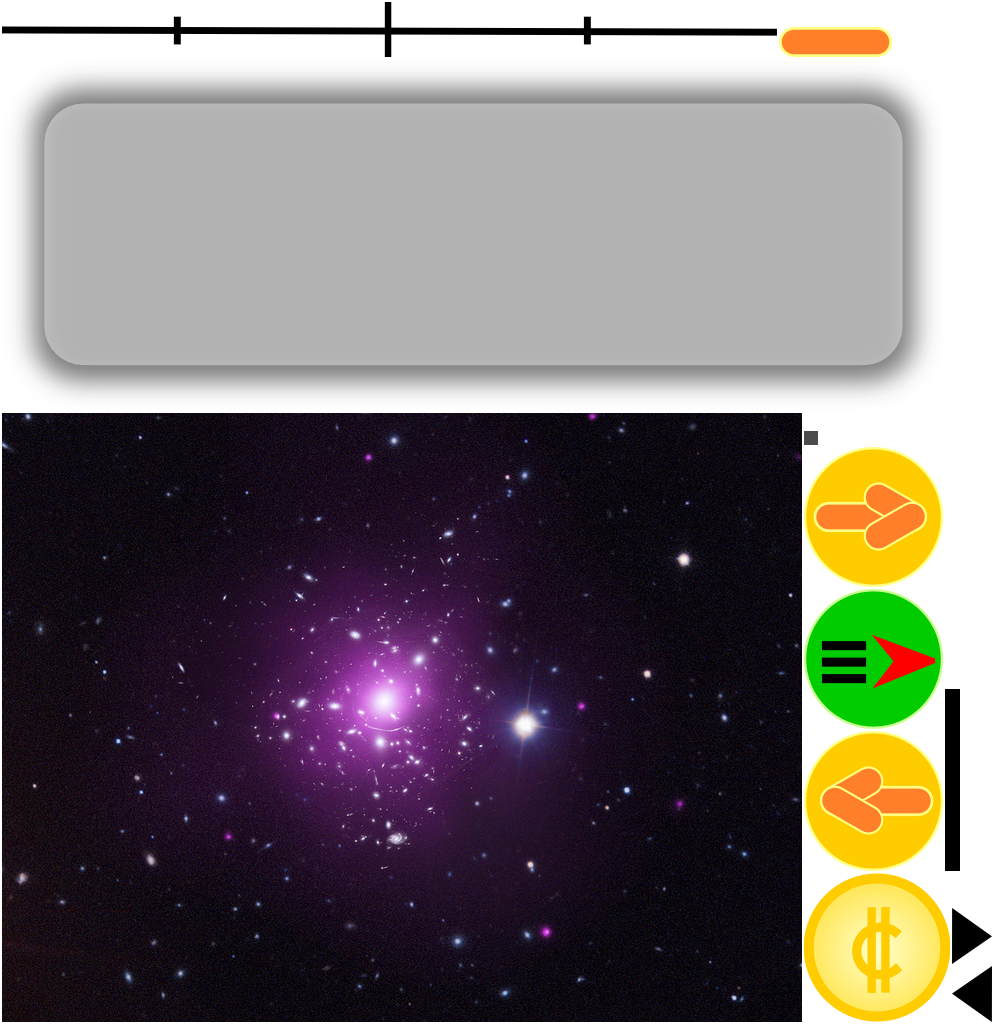
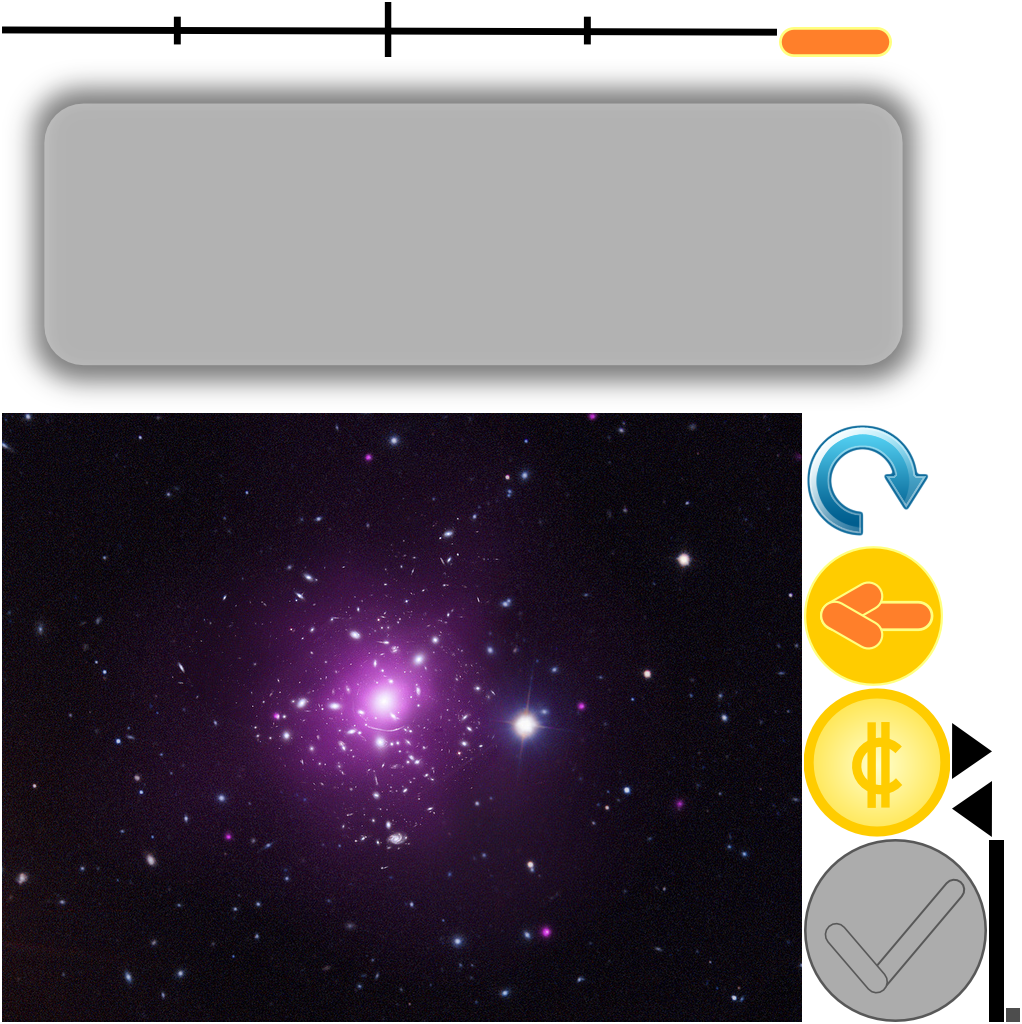
Added a disabled state for the ok button

diff --git a/GalCon-Client/GalCon-Client/src/com/xxx/galcon/UISkin.java b/GalCon-Client/GalCon-Client/src/com/xxx/galcon/UISkin.java
@@ -96,7 +96,9 @@ public class UISkin extends Skin {
 		}
 		{
 			TextureRegionDrawable trd = new TextureRegionDrawable(menusAtlas.findRegion("ok_button"));
-			add(Constants.UI.OK_BUTTON, new ImageButtonStyle(trd, trd, trd, trd, trd, trd));
+			ImageButtonStyle okButtonStyle = new ImageButtonStyle(trd, trd, trd, trd, trd, trd);
+			okButtonStyle.imageDisabled = new TextureRegionDrawable(menusAtlas.findRegion("ok_button_disabled"));
+			add(Constants.UI.OK_BUTTON, okButtonStyle);
 		}
 		{
 			TextureRegionDrawable trd = new TextureRegionDrawable(menusAtlas.findRegion("question_mark"));
@@ -136,9 +138,12 @@ public class UISkin extends Skin {
 		add("cancelButton", new ImageButtonStyle(textureRegionDrawable, textureRegionDrawable, textureRegionDrawable,
 				textureRegionDrawable, textureRegionDrawable, textureRegionDrawable));
 
+		
+		
 		textureRegionDrawable = new TextureRegionDrawable(menusAtlas.findRegion("ok_button"));
-		add("okButton", new ImageButtonStyle(textureRegionDrawable, textureRegionDrawable, textureRegionDrawable,
-				textureRegionDrawable, textureRegionDrawable, textureRegionDrawable));
+		ImageButtonStyle okButtonStyle = new ImageButtonStyle(textureRegionDrawable, textureRegionDrawable, textureRegionDrawable, textureRegionDrawable, textureRegionDrawable, textureRegionDrawable);
+		okButtonStyle.imageDisabled = new TextureRegionDrawable(menusAtlas.findRegion("ok_button_disabled"));
+		add("okButton", okButtonStyle);
 
 		textureRegionDrawable = new TextureRegionDrawable(socialAtlas.findRegion("Google+_chiclet_Red"));
 		add("googlePlusButton", new ImageButtonStyle(textureRegionDrawable, textureRegionDrawable,

diff --git a/GalCon-Client/GalCon-Client/src/com/xxx/galcon/screen/ship/selection/MoveDialog.java b/GalCon-Client/GalCon-Client/src/com/xxx/galcon/screen/ship/selection/MoveDialog.java
@@ -102,6 +102,7 @@ public class MoveDialog extends CancelEnabledDialog {
 				counter.setText((int)slider.getValue() + "");
 				shipsToSend = (int)slider.getValue();
 				initialCount.setText("" + (max - shipsToSend));
+				okButton.setDisabled(shipsToSend == 0);
 			}
 		});
 		
@@ -131,9 +132,12 @@ public class MoveDialog extends CancelEnabledDialog {
 		
 		okButton.addListener(new ClickListener(){@Override
 		public void clicked(InputEvent event, float x, float y) {
-			Move move = MoveFactory.createMove(planetsInvolved, shipsToSend, currentRound);
-			fire(new MoveEvent(move));
+			if(!okButton.isDisabled()){
+				Move move = MoveFactory.createMove(planetsInvolved, shipsToSend, currentRound);
+				fire(new MoveEvent(move));
+			}
 		}});
+		okButton.setDisabled(shipsToSend == 0);
 		addActor(okButton);
 	}
 	

diff --git a/GalCon-Client/GalCon-Client/src/com/xxx/galcon/screen/widget/ActionButton.java b/GalCon-Client/GalCon-Client/src/com/xxx/galcon/screen/widget/ActionButton.java
@@ -11,7 +11,9 @@ public class ActionButton extends ImageButton {
 		super(skin, style);
 		GraphicsUtils.setCommonButtonSize(this);
 		setPosition(position.x, position.y);
+		
 	}
+
 	
 	public ActionButton(Skin skin, String style, float width, float height) {
 		super(skin, style);
